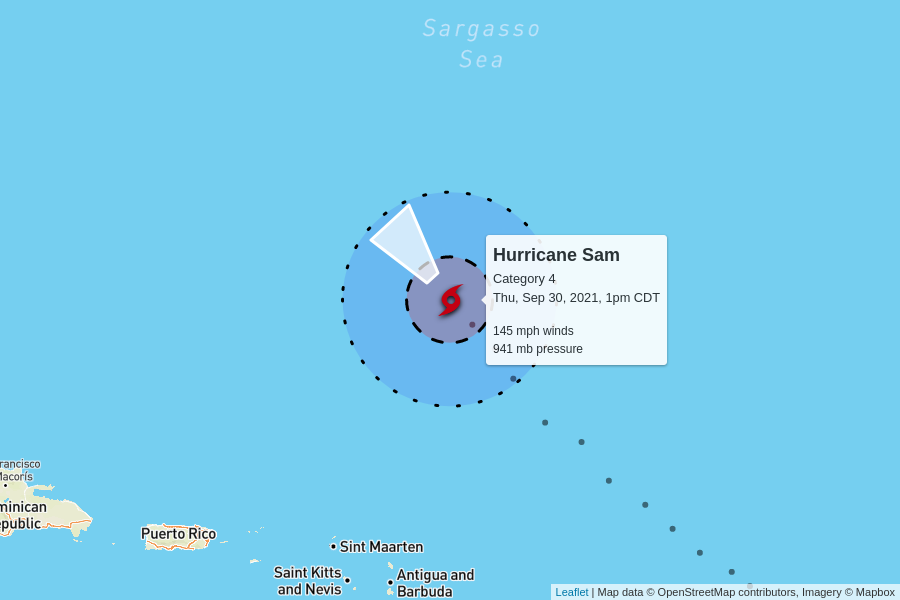
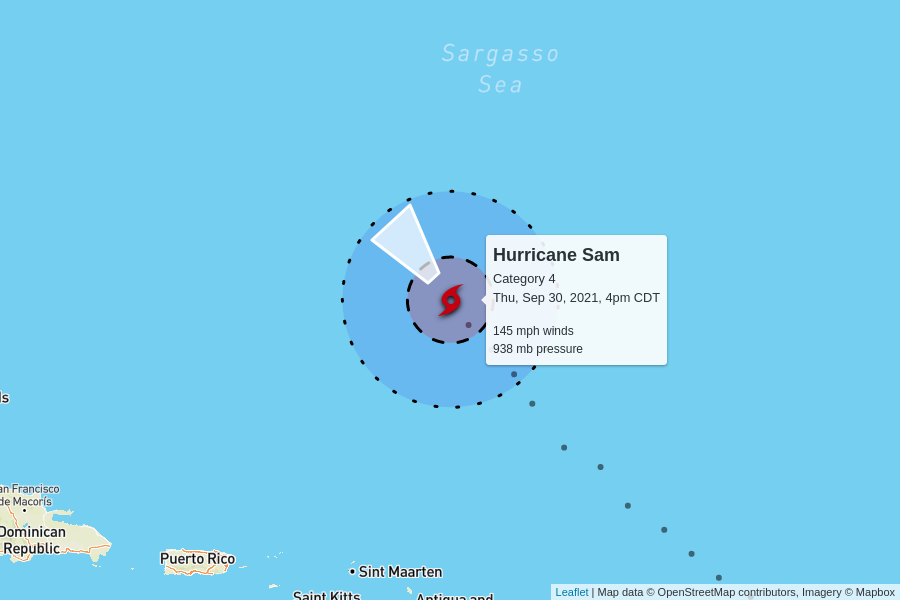
automatic update

diff --git a/docs/index.html b/docs/index.html
@@ -97,6 +97,50 @@
 
     <table>
       <tr>
+        <td colspan="6" class="storm category-4" >
+          <h2>
+            Hurricane Sam - Category 4
+            <p class="updated">last updated <span data-time>2021-09-30T21:00:00.000Z</span></p>
+          </h2>
+        </td>
+      </tr>
+      
+      <tr>
+        <th class="spacer"></th>
+        <th>wind speed</th>
+        <th>central pressure</th>
+        <th>movement</th>
+        <th>data (CSV)</th>
+        <th>National Hurricane Center</th>
+      </tr>
+      <tr>
+        <td class="spacer"></td>
+        <td>145 mph</td>
+        <td>938 mb</td>
+        <td>
+          14 mph to the northwest
+          <br/>
+          <span style="display: inline-block; font-size: 1.5em; transform: rotate(320deg);">↑</span>
+        </td>
+        <td><a href="https://raw.githubusercontent.com/mgwalker/atlantic-hurricanes/main/data/csv/AL182021.csv">AL182021.csv</a></td>
+        <td><a href="https://www.nhc.noaa.gov/archive/2021/SAM.shtml?">NHC advisories</a></td>
+      </tr>
+      <tr id="storm_AL182021" >
+        <td class="spacer">
+        <td colspan="5">
+          <figure>
+            <img src="AL182021.png">
+            <figcaption>
+              Map data &copy; <a href="https://www.openstreetmap.org/copyright">OpenStreetMap</a> contributors,
+              Imagery &copy; <a href="https://www.mapbox.com/">Mapbox</a> |
+              <a href="https://www.mapbox.com/map-feedback/" target="_blank">Improve this map</a>
+            </figcaption>
+          </figure>
+        </td>
+      </tr>
+      
+
+      <tr>
         <td colspan="6" class="storm category-0" >
           <h2>
             Tropical Storm Victor
@@ -130,50 +174,6 @@
         <td colspan="5">
           <figure>
             <img src="AL202021.png">
-            <figcaption>
-              Map data &copy; <a href="https://www.openstreetmap.org/copyright">OpenStreetMap</a> contributors,
-              Imagery &copy; <a href="https://www.mapbox.com/">Mapbox</a> |
-              <a href="https://www.mapbox.com/map-feedback/" target="_blank">Improve this map</a>
-            </figcaption>
-          </figure>
-        </td>
-      </tr>
-      
-
-      <tr>
-        <td colspan="6" class="storm category-4" >
-          <h2>
-            Hurricane Sam - Category 4
-            <p class="updated">last updated <span data-time>2021-09-30T18:00:00.000Z</span></p>
-          </h2>
-        </td>
-      </tr>
-      
-      <tr>
-        <th class="spacer"></th>
-        <th>wind speed</th>
-        <th>central pressure</th>
-        <th>movement</th>
-        <th>data (CSV)</th>
-        <th>National Hurricane Center</th>
-      </tr>
-      <tr>
-        <td class="spacer"></td>
-        <td>145 mph</td>
-        <td>941 mb</td>
-        <td>
-          13 mph to the northwest
-          <br/>
-          <span style="display: inline-block; font-size: 1.5em; transform: rotate(320deg);">↑</span>
-        </td>
-        <td><a href="https://raw.githubusercontent.com/mgwalker/atlantic-hurricanes/main/data/csv/AL182021.csv">AL182021.csv</a></td>
-        <td><a href="https://www.nhc.noaa.gov/archive/2021/SAM.shtml?">NHC advisories</a></td>
-      </tr>
-      <tr id="storm_AL182021" >
-        <td class="spacer">
-        <td colspan="5">
-          <figure>
-            <img src="AL182021.png">
             <figcaption>
               Map data &copy; <a href="https://www.openstreetmap.org/copyright">OpenStreetMap</a> contributors,
               Imagery &copy; <a href="https://www.mapbox.com/">Mapbox</a> |
